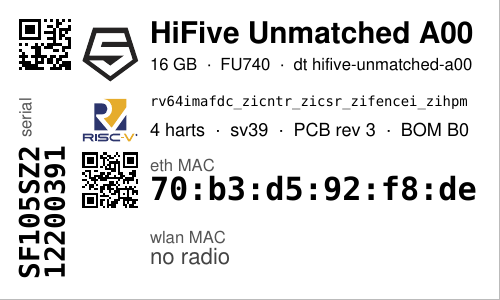
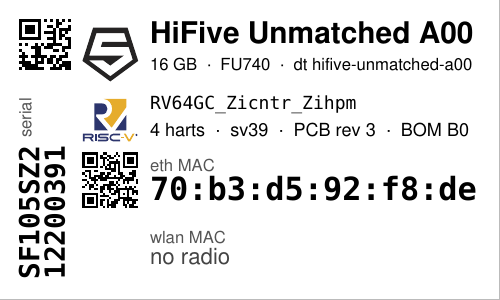
docs: both HiFive Unmatched labels, rendered from their real probe data
The fixtures now equal what the probe read off the boards, so the example
crops are the boards' own labels; both QR codes on each decode to the
EEPROM serial and the MAC. LABELS.md explains the short ISA form.

Claude-Session: https://claude.ai/code/session_01PBYpeR32kHxmN65GqkGhJx

Changed region(s): [[0.3, 0.3, 0.96, 0.39]]

diff --git a/docs/examples/render.py b/docs/examples/render.py
@@ -44,7 +44,8 @@ EXAMPLES = [
     ("rpi", "Pi 3", "rpi3bplus"),
     ("rpi", "Zero", "rpi-zero-w-bonnet"),
     ("opi", "Orange Pi PC", "orange-pi-pc"),
-    ("riscv", "SF105SZ212200391", "hifive-unmatched"),
+    ("riscv", "SF105SZ212200391", "hifive-unmatched-1"),
+    ("riscv", "SF105SZ212200532", "hifive-unmatched-2"),
     ("usb", "AX88179", "usb-asix"),
     ("usb", "6c:1f:f7:51:2e:a3", "usb-wifi"),
     ("usb", "USB3GIGV1", "usb-linksys"),

diff --git a/docs/LABELS.md b/docs/LABELS.md
@@ -137,8 +137,13 @@ Unmatched — and the title and subtitle come from the device tree as on an
 Orange Pi: the model without the maker's name, then fitted RAM, SoC and the
 device-tree id. The Unmatched has no HAT header, so its band carries what
 makes it a RISC-V board instead: the RISC-V logo in the left column, the ISA
-string the kernel reports beside it, and under that the harts, the MMU mode
-and the board's PCB and BOM revisions from its EEPROM.
+beside it, and under that the harts, the MMU mode
+and the board's PCB and BOM revisions from its EEPROM. The ISA is the one the
+kernel reports, in the ISA manual's short form: the kernel spells out every
+extension, implied or not (`rv64imafdc_zicntr_zicsr_zifencei_zihpm_zca_zcd`),
+too long to print at a readable size, so only the folds the manual defines as
+equal are made — G for IMAFD with Zicsr and Zifencei, and C for Zca and Zcd —
+giving `RV64GC_Zicntr_Zihpm`, the same extensions.
 
 The spine carries the board's serial from that EEPROM, `SF105SZ212200391` —
 the one SiFive printed on the board — and the eth row its MAC, which comes
@@ -150,7 +155,8 @@ the command that reads it. The wlan row says `no radio`: the Unmatched's M.2
 E-key slot takes a Wi-Fi card, but a card is not the board.
 
 <p>
-<img src="https://raw.githubusercontent.com/mithro/rpi-hwid/main/docs/examples/hifive-unmatched.png" alt="SiFive HiFive Unmatched A00; serial and MAC from its board EEPROM, RISC-V logo and ISA in the HAT band" width="49%">
+<img src="https://raw.githubusercontent.com/mithro/rpi-hwid/main/docs/examples/hifive-unmatched-1.png" alt="SiFive HiFive Unmatched A00 (hifive-unmatched-1); serial and MAC from its board EEPROM, RISC-V logo and ISA in the HAT band" width="49%">
+<img src="https://raw.githubusercontent.com/mithro/rpi-hwid/main/docs/examples/hifive-unmatched-2.png" alt="SiFive HiFive Unmatched A00 (hifive-unmatched-2)" width="49%">
 </p>
 
 ## FPGA boards
